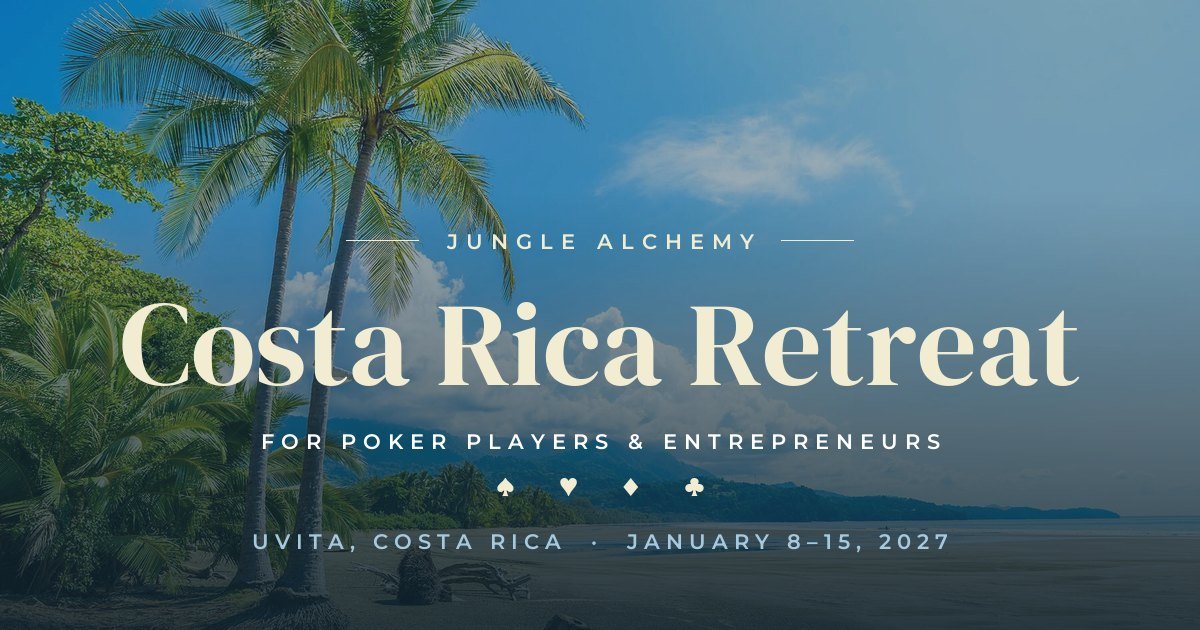
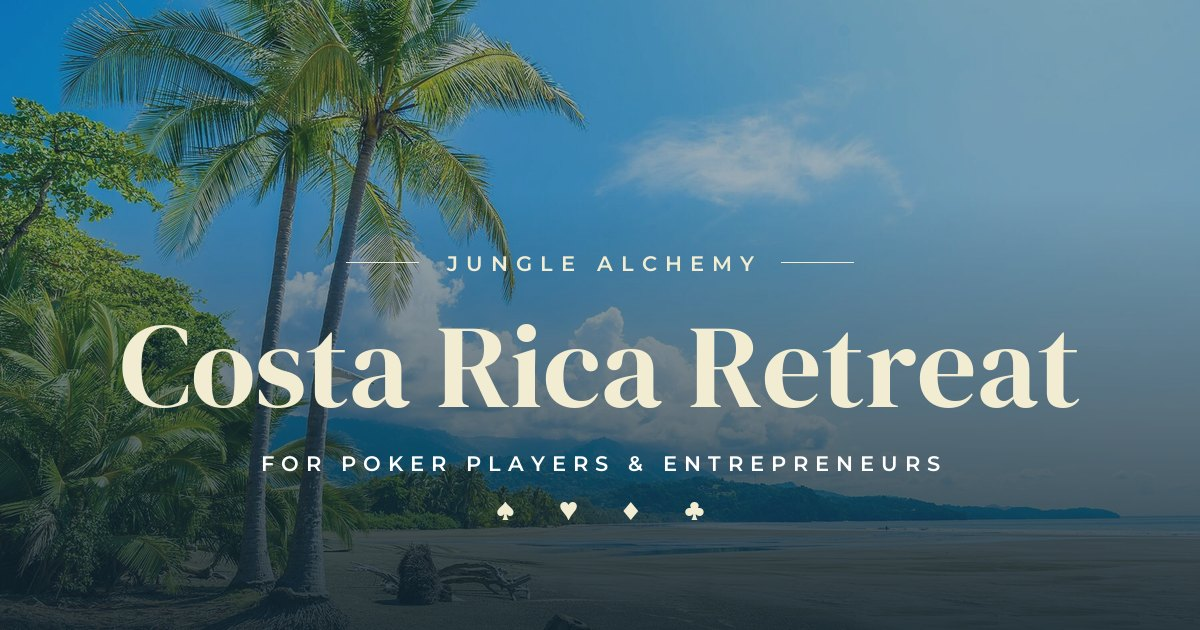
OG card: evergreen (no location line or dates)

diff --git a/index.html b/index.html
@@ -10,15 +10,15 @@
   <meta property="og:type" content="website" />
   <meta property="og:site_name" content="Jungle Alchemy" />
   <meta property="og:title" content="Jungle Alchemy · Costa Rica Retreat" />
-  <meta property="og:description" content="Six days in Uvita, Costa Rica for poker players & entrepreneurs. Yoga, surf, waterfalls, sound journeys, and people who get it. January 8–15, 2027. By application only." />
+  <meta property="og:description" content="Six days in Uvita, Costa Rica for poker players & entrepreneurs. Yoga, surf, waterfalls, sound journeys, and people who get it. By application only." />
   <meta property="og:url" content="https://junglealchemyretreats.com/" />
   <meta property="og:image" content="https://junglealchemyretreats.com/images/og-card.jpg" />
   <meta property="og:image:width" content="1200" />
   <meta property="og:image:height" content="630" />
-  <meta property="og:image:alt" content="Jungle Alchemy: Costa Rica Retreat for poker players and entrepreneurs, Uvita, January 8-15, 2027" />
+  <meta property="og:image:alt" content="Jungle Alchemy: Costa Rica Retreat for poker players and entrepreneurs in Uvita, Costa Rica" />
   <meta name="twitter:card" content="summary_large_image" />
   <meta name="twitter:title" content="Jungle Alchemy · Costa Rica Retreat" />
-  <meta name="twitter:description" content="Six days in Uvita, Costa Rica for poker players & entrepreneurs. Yoga, surf, waterfalls, sound journeys, and people who get it. January 8–15, 2027. By application only." />
+  <meta name="twitter:description" content="Six days in Uvita, Costa Rica for poker players & entrepreneurs. Yoga, surf, waterfalls, sound journeys, and people who get it. By application only." />
   <meta name="twitter:image" content="https://junglealchemyretreats.com/images/og-card.jpg" />
 
   <link rel="preload" as="image" imagesrcset="images/opt/hero-640.webp 640w, images/opt/hero-960.webp 960w, images/opt/hero-1280.webp 1280w, images/opt/hero-1800.webp 1800w" imagesizes="100vw" fetchpriority="high" />

diff --git a/rooms.html b/rooms.html
@@ -15,7 +15,7 @@
   <meta property="og:image" content="https://junglealchemyretreats.com/images/og-card.jpg" />
   <meta property="og:image:width" content="1200" />
   <meta property="og:image:height" content="630" />
-  <meta property="og:image:alt" content="Jungle Alchemy: Costa Rica Retreat for poker players and entrepreneurs, Uvita, January 8-15, 2027" />
+  <meta property="og:image:alt" content="Jungle Alchemy: Costa Rica Retreat for poker players and entrepreneurs in Uvita, Costa Rica" />
   <meta name="twitter:card" content="summary_large_image" />
   <meta name="twitter:title" content="The Rooms · Jungle Alchemy" />
   <meta name="twitter:description" content="Nine eco-luxury suites and beautiful common spaces at our private retreat center in Uvita, Costa Rica." />
